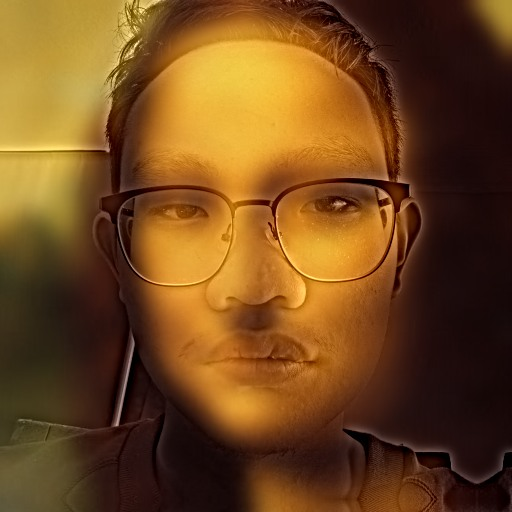
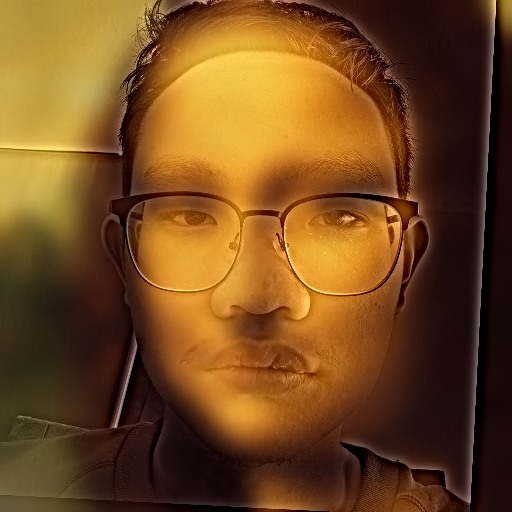
Align Project 2 hybrid image faces

diff --git a/pj2/index.html b/pj2/index.html
@@ -124,12 +124,13 @@
 
     <section id="p22" class="report-section">
       <div class="section-head"><div><div class="kicker">Part 2 · Scale-dependent Perception</div><h2>2.2 Hybrid Images</h2></div><span class="points">20 pts</span></div>
-      <p>Each pair is geometrically aligned before filtering. One image contributes a Gaussian low-pass and the other contributes I−G<sub>σ</sub>*I. Close viewing resolves high-frequency edges; distance or downsampling suppresses them and reveals the low-frequency subject.</p>
+      <p>Each pair is geometrically aligned before filtering. For both face pairs, I manually verified the two eye centers and mapped them to the same target coordinates with a similarity transform, which corrects translation, scale, and in-plane rotation without distorting facial proportions. One image contributes a Gaussian low-pass and the other contributes I−G<sub>σ</sub>*I; close viewing resolves high-frequency edges, while distance reveals the low-frequency subject.</p>
       <div class="figure-grid">
+        <figure class="full"><img src="assets/p22_face_alignment.jpg" alt="Eye-centered face alignment overlays"><figcaption><strong>Alignment verification.</strong> The 50/50 overlays use red crosshairs at the shared target eye centers (180,220) and (332,220). Both pairs now coincide at the eyes before any frequency filtering.</figcaption></figure>
         <figure class="full"><img src="assets/p22_derek_nutmeg.jpg" alt="Derek and Nutmeg hybrid image process"><figcaption><strong>Required pair.</strong> Low-pass Nutmeg σ=12; high-pass Derek σ=6. Eye landmarks determine a reproducible similarity transform.</figcaption></figure>
         <figure class="full"><img src="assets/p22_favorite_fft.jpg" alt="Fourier analysis of Derek Nutmeg hybrid"><figcaption><strong>Favorite analysis.</strong> Log-magnitude spectra show low-pass energy concentrated at the origin, high-pass suppression at the origin, and their complementary sum in the hybrid.</figcaption></figure>
         <figure><img src="assets/p22_earth_moon.jpg" alt="Earth Moon hybrid"><figcaption>Earth low-pass σ=12 + Moon high-pass σ=4. Automatic disc crops align the horizons.</figcaption></figure>
-        <figure><img src="assets/p22_selfie_mona.jpg" alt="Selfie Mona Lisa hybrid"><figcaption>Mona Lisa low-pass σ=10 + selfie high-pass σ=5. Face detections establish equal-size crops.</figcaption></figure>
+        <figure><img src="assets/p22_selfie_mona.jpg" alt="Selfie Mona Lisa hybrid"><figcaption>Mona Lisa low-pass σ=10 + selfie high-pass σ=5. The same eye-centered similarity transform aligns both faces.</figcaption></figure>
       </div>
       <div class="note"><strong>Cutoff selection.</strong> I increased the low-pass σ until small texture no longer competed at close range, then increased the high-pass σ until identity survived without a large luminance halo. These are spatial standard deviations in pixels; larger σ corresponds to a lower frequency cutoff.</div>
       <h3>Bells &amp; Whistles: color contribution</h3>
